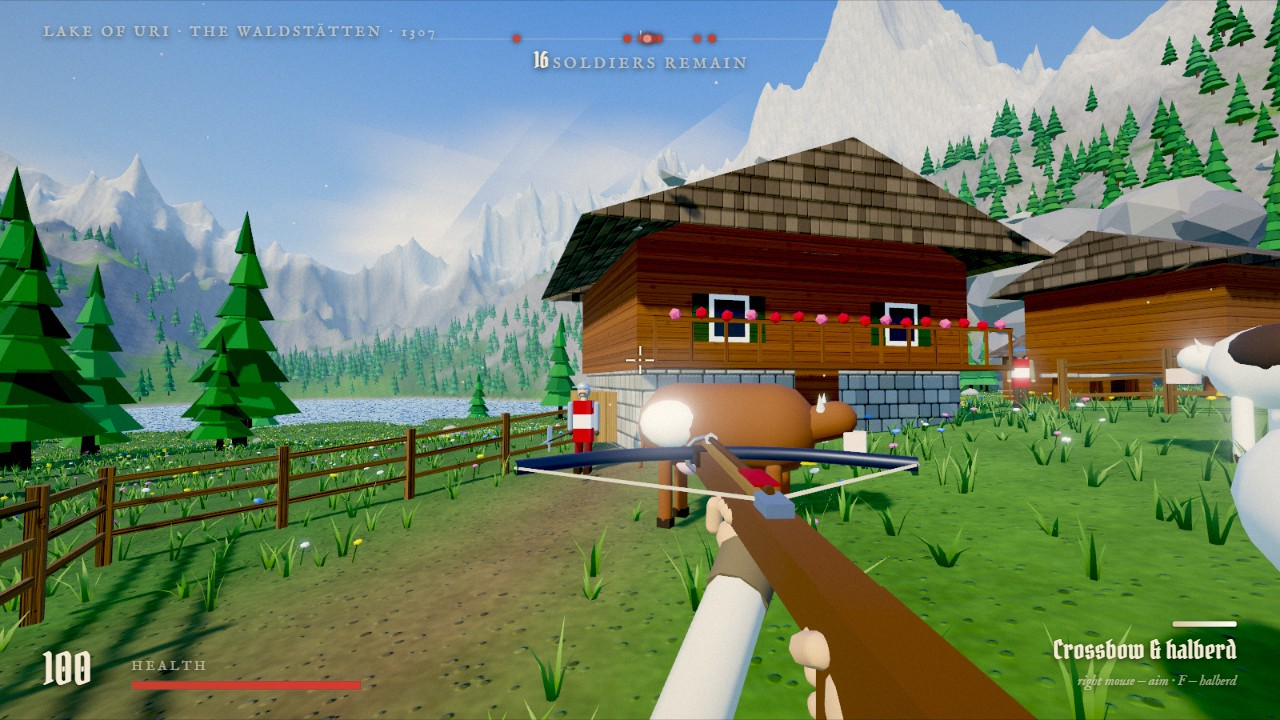
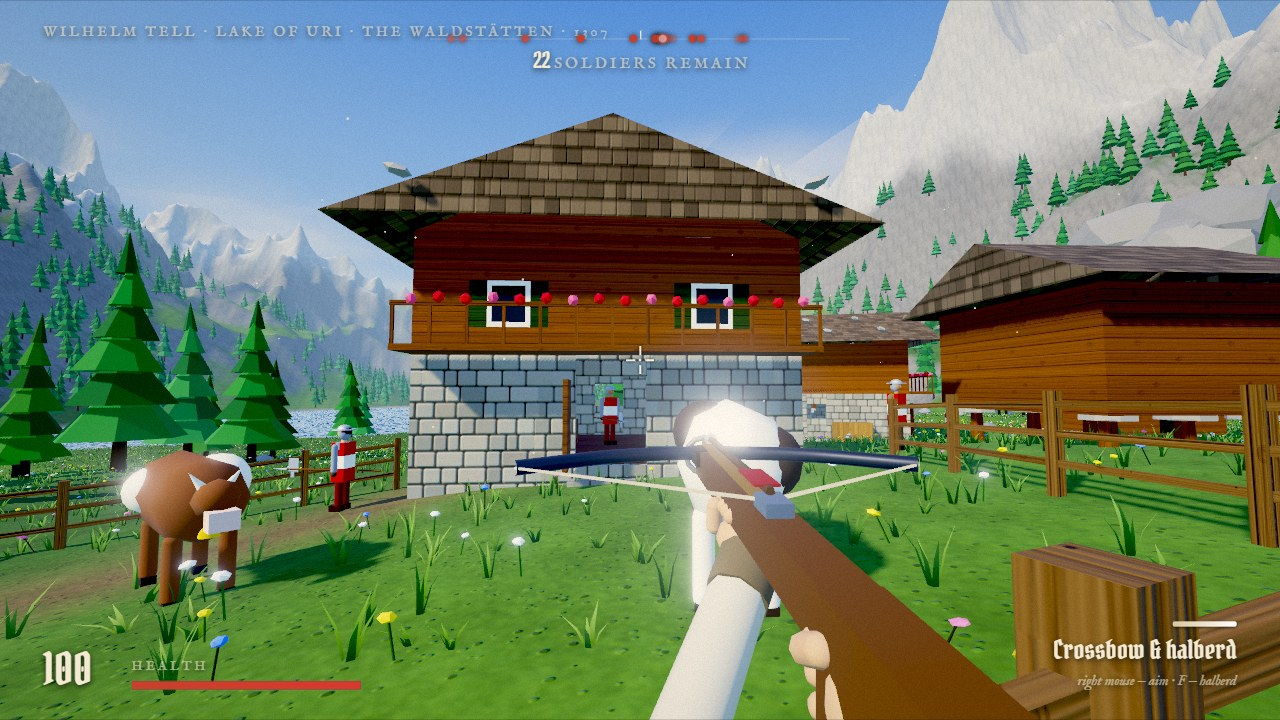
Lone Hand: screenshots retaken for chapters III to VI, eight screenshots in a 4 x 2 table

diff --git a/README.md b/README.md
@@ -13,11 +13,15 @@ To play offline, download or clone this repository and open `index.html` in your
 
 ## Claude version
 
-| Chapter I · Dry Gulch | Chapter II · Kagemori | Chapter III · Uri | Chapter IV · Ithaca |
-| :---: | :---: | :---: | :---: |
-| <img src="Claude/screenshot.jpg" width="200" alt="The main street of Dry Gulch at golden hour, looking west: the sheriff's office and the jail on the right, the telegraph office and the barber on the left, an outlaw in a sombrero on the boardwalk, the six-shooter in the foreground"> | <img src="Claude/screenshot-japan.jpg" width="200" alt="The path of red torii gates through the bamboo forest at dusk, stone lanterns glowing, the samurai's bow drawn in the foreground"> | <img src="Claude/screenshot-uri.jpg" width="200" alt="An alpine chalet with flower boxes, a cow, an Austrian soldier, the lake and snow peaks behind, the crossbow in the foreground"> | <img src="Claude/screenshot-greece.jpg" width="200" alt="A Greek island in bright sun: Spartans with red cloaks and lambda shields among olive trees and white houses, a temple with columns on the hill behind, a javelin in the foreground"> |
-| **Chapter V · Jarnvik** | **Chapter VI · Sainte-Aubine** | **Chapter VII · Stalnogorsk** | **Chapter VIII · Che La** |
-| <img src="Claude/screenshot-north.jpg" width="200" alt="A snowy Viking village at night under green northern lights: a bonfire, longhouses, a palisade gate and two Vikings, a throwing axe in the foreground"> | <img src="Claude/screenshot-normandy.jpg" width="200" alt="A Norman village square before dawn: German soldiers, an officer and two guard dogs on the cobbles between stone houses, a tank and a truck behind, searchlight beams crossing a pink and violet sky, a Sten gun in the foreground"> | <img src="Claude/screenshot-russia.jpg" width="200" alt="A grey Soviet city in falling snow: a raised checkpoint barrier, a cobbled square with a giant statue on a red granite plinth, panel blocks with lit windows and a tower behind, a militiaman, agents and a guard dog, a submachine gun in the foreground"> | <img src="Claude/screenshot-tibet.jpg" width="200" alt="A Tibetan village under snow peaks and a deep blue sky: whitewashed flat-roofed houses with dark red parapets, a white chorten, strings of prayer flags, the monastery on the ridge behind, Chinese soldiers, a rifle in the foreground"> |
+| Chapter I · Dry Gulch | Chapter II · Kagemori |
+| :---: | :---: |
+| <img src="Claude/screenshot.jpg" width="400" alt="The main street of Dry Gulch at golden hour, looking west: the sheriff's office and the jail on the right, the telegraph office and the barber on the left, an outlaw in a sombrero on the boardwalk, the six-shooter in the foreground"> | <img src="Claude/screenshot-japan.jpg" width="400" alt="The path of red torii gates through the bamboo forest at dusk, stone lanterns glowing, the samurai's bow drawn in the foreground"> |
+| **Chapter III · Uri** | **Chapter IV · Ithaca** |
+| <img src="Claude/screenshot-uri.jpg" width="400" alt="An alpine chalet with a stone ground floor and an open door, a Habsburg soldier standing inside, flower boxes on the balcony, a cow in the paddock, the lake and snow peaks behind, the crossbow in the foreground"> | <img src="Claude/screenshot-greece.jpg" width="400" alt="A Greek island in bright sun: white houses with red tile roofs, a Spartan seen through the open window of one, a colonnade, cypresses and olive trees, the temple on its hill behind, a javelin and a bronze shield in the foreground"> |
+| **Chapter V · Jarnvik** | **Chapter VI · Sainte-Aubine** |
+| <img src="Claude/screenshot-north.jpg" width="400" alt="A snowy Viking village at night under green northern lights: a bonfire, longhouses, the palisade gate and a Viking, a throwing axe and a round shield in the foreground"> | <img src="Claude/screenshot-normandy.jpg" width="400" alt="A Norman village square before dawn: stone houses, a truck, a tank and an officer around the fountain, searchlight beams crossing a pink and violet sky, a Sten gun in the foreground"> |
+| **Chapter VII · Stalnogorsk** | **Chapter VIII · Che La** |
+| <img src="Claude/screenshot-russia.jpg" width="400" alt="A grey Soviet city in falling snow: a raised checkpoint barrier, a cobbled square with a giant statue on a red granite plinth, panel blocks with lit windows and a tower behind, a militiaman, agents and a guard dog, a submachine gun in the foreground"> | <img src="Claude/screenshot-tibet.jpg" width="400" alt="A Tibetan village under snow peaks and a deep blue sky: whitewashed flat-roofed houses with dark red parapets, a white chorten, strings of prayer flags, the monastery on the ridge behind, Chinese soldiers, a rifle in the foreground"> |
 
 *Lone Hand* is a free-roaming 3D shooter in eight chapters, with every texture, model and sound generated by code. Each chapter starts with a choice of three heroes from history and legend, twenty-four in all, among them Wyatt Earp, Miyamoto Musashi, Wilhelm Tell, Ulysses, Erik the Red, Lyudmila Pavlichenko, Andrei Sakharov and Gompo Tashi Andrugtsang, each with their own look and one strength. **[Play it in your browser](https://iago-swi.github.io/outlaws/Claude/)**, or download the repository and open `Claude/index.html`. [Controls and technical notes](Claude/README.md)
 

diff --git a/Claude/README.md b/Claude/README.md
@@ -13,11 +13,15 @@ files.
 
 **[Play it in your browser](https://iago-swi.github.io/outlaws/Claude/)**
 
-| Chapter I · Dry Gulch | Chapter II · Kagemori | Chapter III · Uri | Chapter IV · Ithaca |
-| :---: | :---: | :---: | :---: |
-| <img src="screenshot.jpg" width="200" alt="The main street of Dry Gulch at golden hour, looking west: the sheriff's office and the jail on the right, the telegraph office and the barber on the left, an outlaw in a sombrero on the boardwalk, the six-shooter in the foreground"> | <img src="screenshot-japan.jpg" width="200" alt="The path of red torii gates through the bamboo forest at dusk, stone lanterns glowing, the samurai's bow drawn in the foreground"> | <img src="screenshot-uri.jpg" width="200" alt="An alpine chalet with flower boxes, a cow, an Austrian soldier, the lake and snow peaks behind, the crossbow in the foreground"> | <img src="screenshot-greece.jpg" width="200" alt="A Greek island in bright sun: Spartans with red cloaks and lambda shields among olive trees and white houses, a temple with columns on the hill behind, a javelin in the foreground"> |
-| **Chapter V · Jarnvik** | **Chapter VI · Sainte-Aubine** | **Chapter VII · Stalnogorsk** | **Chapter VIII · Che La** |
-| <img src="screenshot-north.jpg" width="200" alt="A snowy Viking village at night under green northern lights: a bonfire, longhouses, a palisade gate and two Vikings, a throwing axe in the foreground"> | <img src="screenshot-normandy.jpg" width="200" alt="A Norman village square before dawn: German soldiers, an officer and two guard dogs on the cobbles between stone houses, a tank and a truck behind, searchlight beams crossing a pink and violet sky, a Sten gun in the foreground"> | <img src="screenshot-russia.jpg" width="200" alt="A grey Soviet city in falling snow: a raised checkpoint barrier, a cobbled square with a giant statue on a red granite plinth, panel blocks with lit windows and a tower behind, a militiaman, agents and a guard dog, a submachine gun in the foreground"> | <img src="screenshot-tibet.jpg" width="200" alt="A Tibetan village under snow peaks and a deep blue sky: whitewashed flat-roofed houses with dark red parapets, a white chorten, strings of prayer flags, the monastery on the ridge behind, Chinese soldiers, a rifle in the foreground"> |
+| Chapter I · Dry Gulch | Chapter II · Kagemori |
+| :---: | :---: |
+| <img src="screenshot.jpg" width="400" alt="The main street of Dry Gulch at golden hour, looking west: the sheriff's office and the jail on the right, the telegraph office and the barber on the left, an outlaw in a sombrero on the boardwalk, the six-shooter in the foreground"> | <img src="screenshot-japan.jpg" width="400" alt="The path of red torii gates through the bamboo forest at dusk, stone lanterns glowing, the samurai's bow drawn in the foreground"> |
+| **Chapter III · Uri** | **Chapter IV · Ithaca** |
+| <img src="screenshot-uri.jpg" width="400" alt="An alpine chalet with a stone ground floor and an open door, a Habsburg soldier standing inside, flower boxes on the balcony, a cow in the paddock, the lake and snow peaks behind, the crossbow in the foreground"> | <img src="screenshot-greece.jpg" width="400" alt="A Greek island in bright sun: white houses with red tile roofs, a Spartan seen through the open window of one, a colonnade, cypresses and olive trees, the temple on its hill behind, a javelin and a bronze shield in the foreground"> |
+| **Chapter V · Jarnvik** | **Chapter VI · Sainte-Aubine** |
+| <img src="screenshot-north.jpg" width="400" alt="A snowy Viking village at night under green northern lights: a bonfire, longhouses, the palisade gate and a Viking, a throwing axe and a round shield in the foreground"> | <img src="screenshot-normandy.jpg" width="400" alt="A Norman village square before dawn: stone houses, a truck, a tank and an officer around the fountain, searchlight beams crossing a pink and violet sky, a Sten gun in the foreground"> |
+| **Chapter VII · Stalnogorsk** | **Chapter VIII · Che La** |
+| <img src="screenshot-russia.jpg" width="400" alt="A grey Soviet city in falling snow: a raised checkpoint barrier, a cobbled square with a giant statue on a red granite plinth, panel blocks with lit windows and a tower behind, a militiaman, agents and a guard dog, a submachine gun in the foreground"> | <img src="screenshot-tibet.jpg" width="400" alt="A Tibetan village under snow peaks and a deep blue sky: whitewashed flat-roofed houses with dark red parapets, a white chorten, strings of prayer flags, the monastery on the ridge behind, Chinese soldiers, a rifle in the foreground"> |
 
 ## Run it
 
